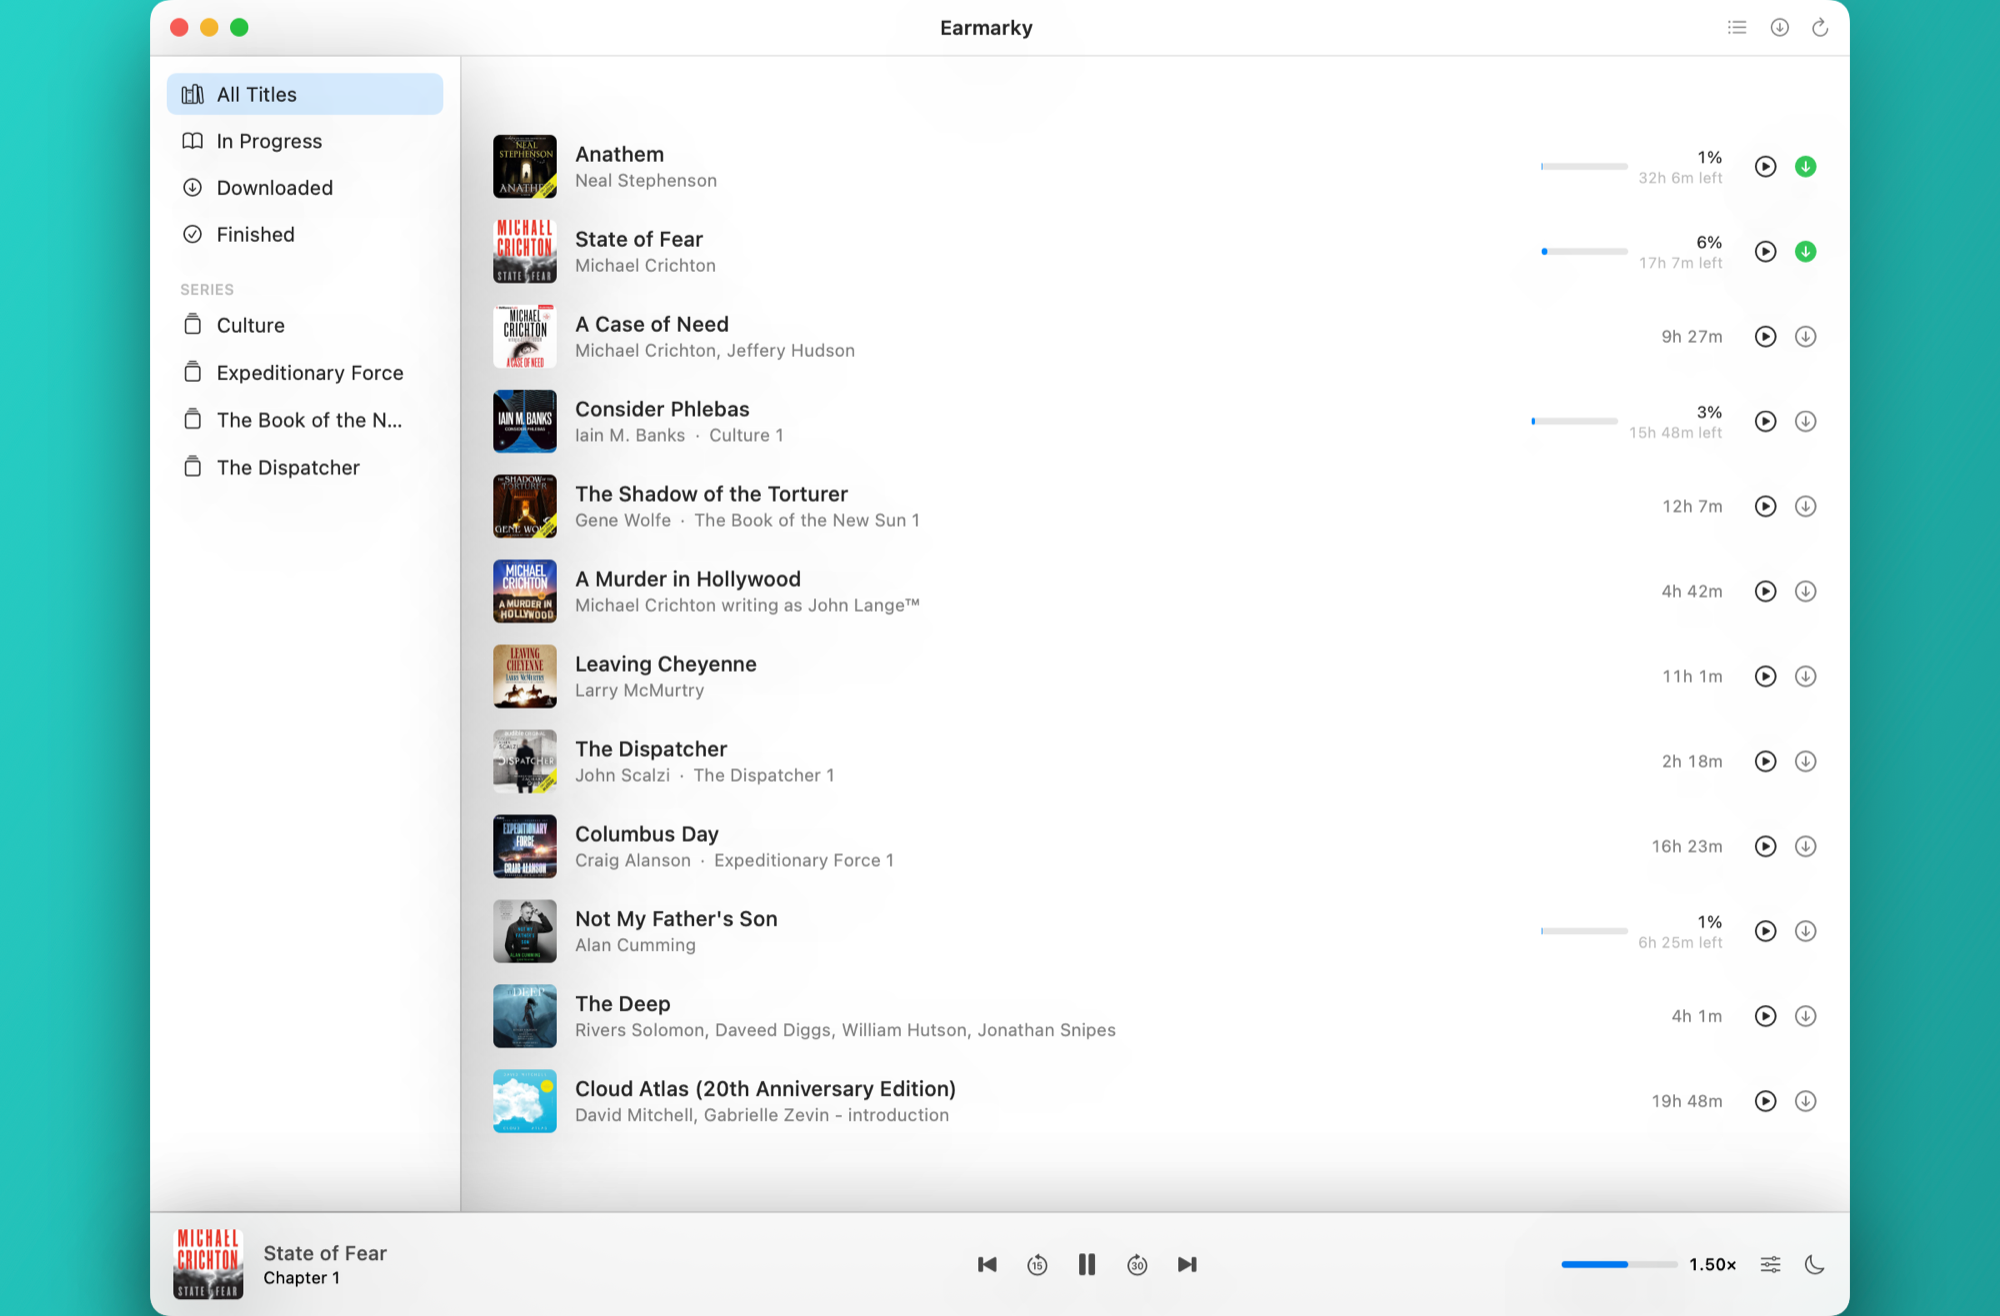
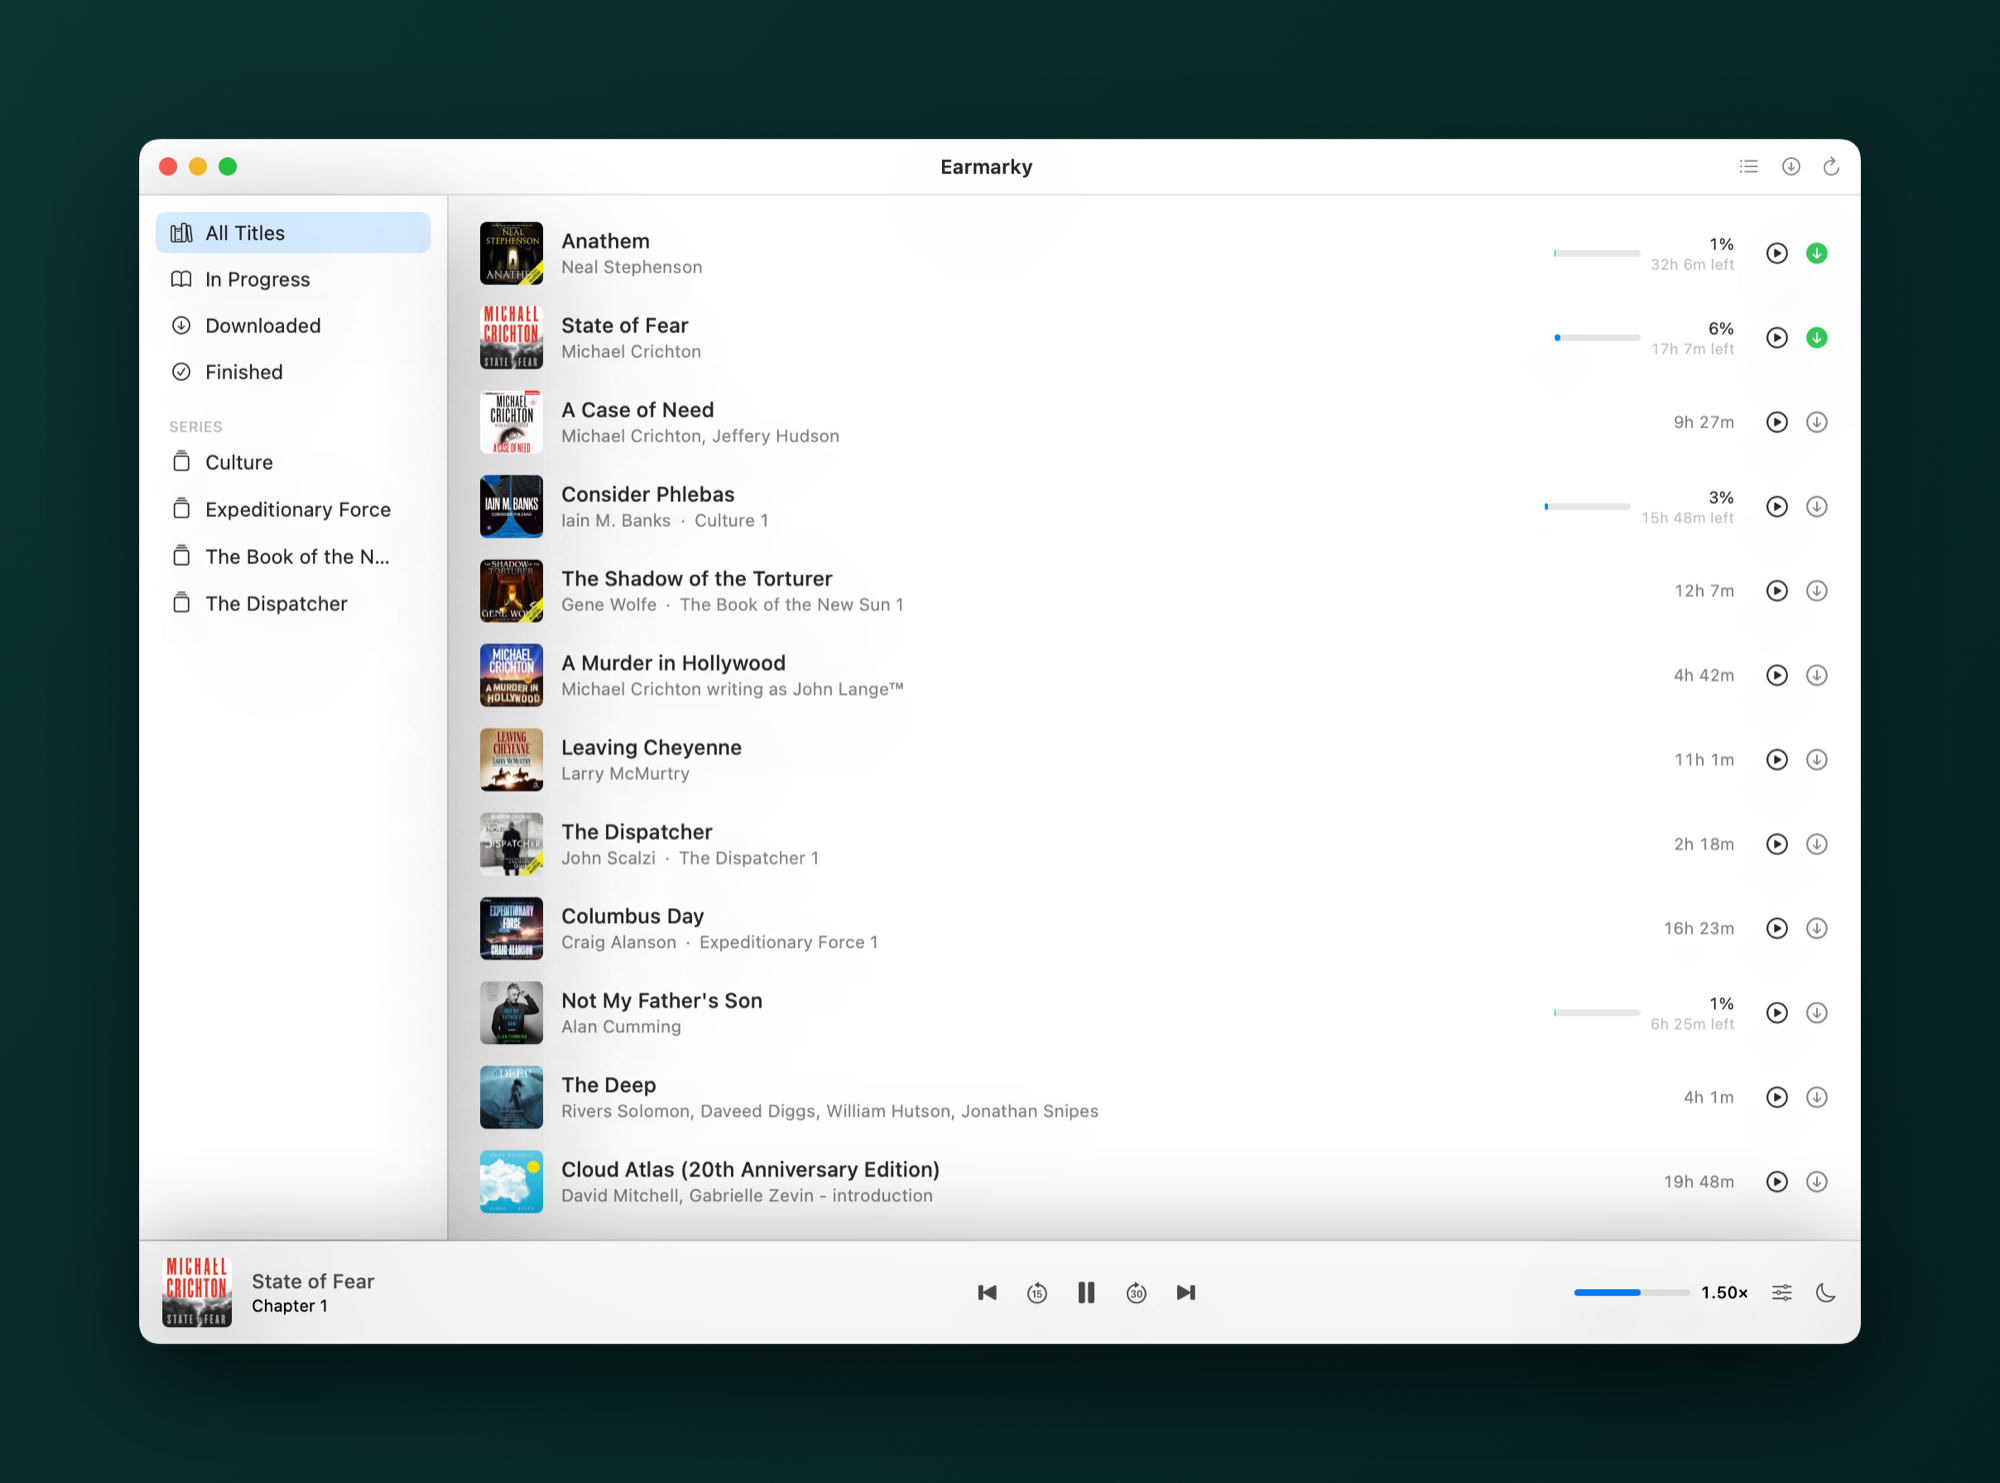
Give the pictures the same air on every side
The window was cut against the top and bottom while the sides kept their
margin, because the picture was forced into a shape rather than taking its
size from what is in it.

diff --git a/Sources/Earmarky/PromoShot.swift b/Sources/Earmarky/PromoShot.swift
@@ -58,7 +58,7 @@ enum PromoShot {
         ]
 
         for (name, scene) in scenes {
-            let renderer = ImageRenderer(content: scene.frame(width: 1_200, height: 790))
+            let renderer = ImageRenderer(content: scene)
             renderer.scale = 2
             guard let image = renderer.nsImage,
                   let data = image.tiffRepresentation,
@@ -87,7 +87,6 @@ enum PromoShot {
         }
 
         let view = ShotView(entries: shown, artwork: artwork)
-            .frame(width: 1_200, height: 790)
 
         let renderer = ImageRenderer(content: view)
         renderer.scale = 2
@@ -121,20 +120,21 @@ struct ShotView: View {
     var showsSound = false
 
     var body: some View {
-        ZStack {
-            LinearGradient(
-                colors: [Color(red: 0.16, green: 0.82, blue: 0.78),
-                         Color(red: 0.10, green: 0.62, blue: 0.60)],
-                startPoint: .topLeading, endPoint: .bottomTrailing)
-
-            window
-                .frame(width: 1_020)
-                .clipShape(RoundedRectangle(cornerRadius: 12))
-                .shadow(color: .black.opacity(0.28), radius: 30, y: 14)
-                .overlay(alignment: .bottomTrailing) {
-                    if showsSound { soundPanel.padding(.trailing, 26).padding(.bottom, 74) }
-                }
-        }
+        window
+            .frame(width: 1_040)
+            .clipShape(RoundedRectangle(cornerRadius: 12))
+            .shadow(color: .black.opacity(0.30), radius: 34, y: 16)
+            .overlay(alignment: .bottomTrailing) {
+                if showsSound { soundPanel.padding(.trailing, 26).padding(.bottom, 76) }
+            }
+            // The same air on every side. The picture takes its size from
+            // what is in it rather than being cut to fit a shape.
+            .padding(84)
+            .background(
+                LinearGradient(
+                    colors: [Color(red: 0.05, green: 0.20, blue: 0.20),
+                             Color(red: 0.02, green: 0.13, blue: 0.13)],
+                    startPoint: .topLeading, endPoint: .bottomTrailing))
     }
 
     private var window: some View {
